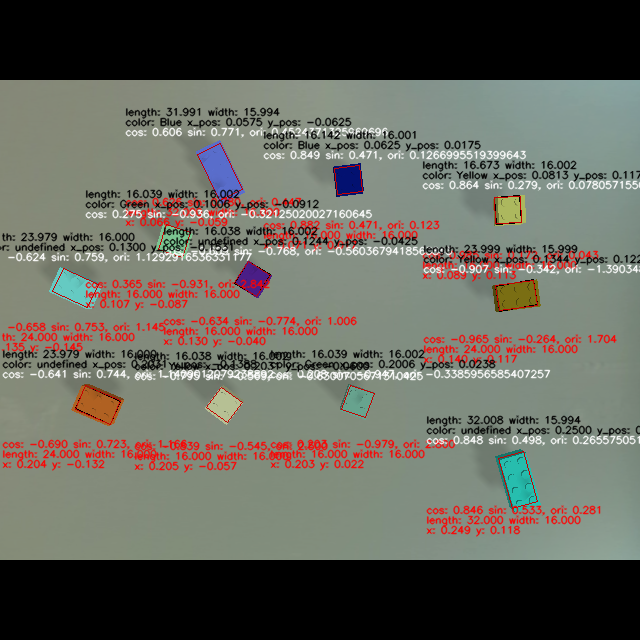
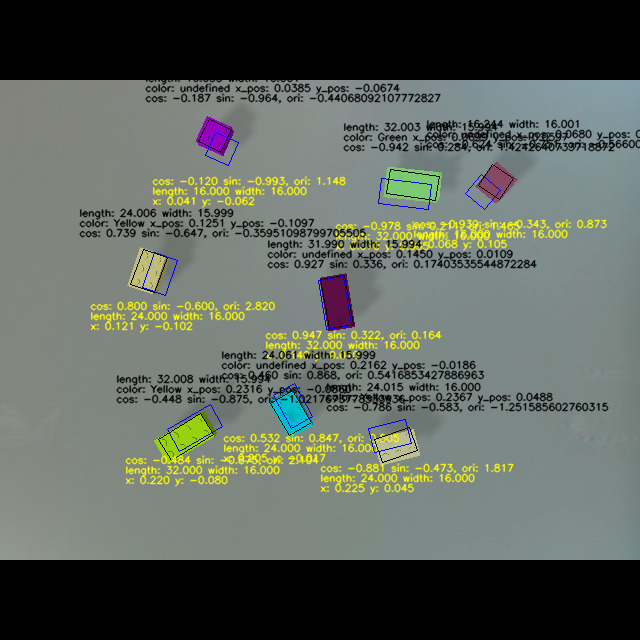
zzz_laptop_update

Changed region(s): [[0.0, 0.125, 1.0, 0.8438], [0.9375, 0.5, 0.9688, 0.5312]]

diff --git a/knolling_lego.py b/knolling_lego.py
@@ -34,8 +34,8 @@ from sklearn.preprocessing import MinMaxScaler
 from shapely.geometry import Polygon
 
 torch.manual_seed(42)
-np.random.seed(123)
-random.seed(123)
+np.random.seed(124)
+random.seed(124)
 
 class Net(nn.Module):
     def __init__(self):
@@ -77,8 +77,8 @@ class Arm:
 
         self.num_motor = 5
 
-        self.low_scale = np.array([0.02, -0.15, 0.006, - np.pi / 2, 0])
-        self.high_scale = np.array([0.28, 0.15, 0.05, np.pi / 2, 0.4])
+        self.low_scale = np.array([0.03, -0.14, 0.006, - np.pi / 2, 0])
+        self.high_scale = np.array([0.27, 0.14, 0.05, np.pi / 2, 0.4])
         self.low_act = -np.ones(5)
         self.high_act = np.ones(5)
         self.x_low_obs = self.low_scale[0]
@@ -87,7 +87,7 @@ class Arm:
         self.y_high_obs = self.high_scale[1]
         self.z_low_obs = self.low_scale[2]
         self.z_high_obs = self.high_scale[2]
-        self.table_boundary = 0.02
+        self.table_boundary = 0.03
 
         self.lateral_friction = 1
         self.spinning_friction = 1
@@ -113,7 +113,7 @@ class Arm:
             ],  # the direction is from the light source position to the origin of the world frame.
         }
         self.view_matrix = p.computeViewMatrixFromYawPitchRoll(
-                                    cameraTargetPosition=[0.154, 0, 0],
+                                    cameraTargetPosition=[0.15, 0, 0],
                                     distance=0.387,
                                     yaw=90,
                                     pitch=-90,
@@ -192,7 +192,16 @@ class Arm:
 
             ############### order the ground truth depend on x, y in the world coordinate system ###############
             new_xyz_list = self.xyz_list
-            ground_truth_xyyaw = np.concatenate((self.check_pos, self.check_ori.reshape((-1, 1))), axis=1)
+
+            # collect the cur pos and cur ori in pybullet as the ground truth
+            new_pos_before, new_ori_before = [], []
+            for i in range(len(self.obj_idx)):
+                new_pos_before.append(p.getBasePositionAndOrientation(self.obj_idx[i])[0][:2])
+                new_ori_before.append(p.getEulerFromQuaternion(p.getBasePositionAndOrientation(self.obj_idx[i])[1])[2])
+            new_pos_before = np.asarray(new_pos_before)
+            new_ori_before = np.asarray(new_ori_before)
+            ground_truth_xyyaw = np.concatenate((new_pos_before, new_ori_before.reshape((-1, 1))), axis=1)
+            # ground_truth_xyyaw = np.concatenate((self.check_pos, self.check_ori.reshape((-1, 1))), axis=1)
             order_ground_truth = np.lexsort((ground_truth_xyyaw[:, 1], ground_truth_xyyaw[:, 0]))
 
             ground_truth_xyyaw_test = np.copy(ground_truth_xyyaw[order_ground_truth, :])
@@ -251,10 +260,12 @@ class Arm:
                 target_compare_scaled = scaler.transform(target_compare)
 
                 # structure: x, y, length, width, ori
+                ################### the results of object detection has changed the order!!!! ####################
                 results = np.asarray(
                     detect(img, evaluation=evaluation, real_operate=self.real_operate, all_truth=target_plot, order_truth=order_ground_truth))
                 results = np.asarray(results[:, :5]).astype(np.float32)
                 # print('this is the result of yolo+resnet\n', results)
+                ################### the results of object detection has changed the order!!!! ####################
                 for i in range(len(results)):
                     if results[i][2] < 0.018:
                         results[i][4] = results[i][4] * 2
@@ -368,6 +379,7 @@ class Arm:
             pred_compare = np.concatenate((results[:, 2:4], pred_cos, pred_sin), axis=1)
             pred_compare_2 = np.concatenate((results[:, 2:4], -pred_cos, -pred_sin), axis=1)
 
+            # arange the sequence based on categories of cubes
             all_index = []
             new_xyz_list = []
             kind = []
@@ -1113,7 +1125,7 @@ class Arm:
                                                 targetPosition=ik_angles0[motor_index], maxVelocity=2.5)
                     for i in range(30):
                         p.stepSimulation()
-                        # time.sleep(1 / 240)
+                        time.sleep(1 / 48)
                     if abs(target_pos[0] - tar_pos[0]) < 0.001 and abs(target_pos[1] - tar_pos[1]) < 0.001 and abs(
                             target_pos[2] - tar_pos[2]) < 0.001 and \
                             abs(target_ori[0] - tar_ori[0]) < 0.001 and abs(target_ori[1] - tar_ori[1]) < 0.001 and abs(
@@ -1547,65 +1559,119 @@ class Arm:
             for motor_index in range(self.num_motor):
                 p.setJointMotorControl2(self.arm_id, motor_index, p.POSITION_CONTROL,
                                         targetPosition=ik_angles0[motor_index], maxVelocity=7)
-            for i in range(80):
+            for i in range(100):
                 p.stepSimulation()
                 # self.images = self.get_image()
-                # time.sleep(1 / 120)
+                # time.sleep(1 / 12)
 
-        def check_accuracy_sim():
-            manipulator_before, new_xyz_list = self.get_obs(self.obs_order, _)
-            print('this is before', manipulator_before)
-            print('this is after', self.manipulator_after)
-            print('this is new xyz', new_xyz_list)
-            print('this is self xyz', self.xyz_list)
+        def check_accuracy_sim(): # need improvement
 
-            all_distance_sim = 0
-            # for i in range(len(manipulator_before)):
-            #     all_distance_sim += np.linalg.norm(manipulator_before[i][:3] - self.manipulator_after[i][:3])
-            #     if np.linalg.norm(manipulator_before[i][:3] - self.manipulator_after[i][:3]) > 0.01:
-            #         print(manipulator_before[i][:3])
-            #         print(self.manipulator_after[i][:3])
-            #         image_error = self.get_obs('images')
-            #         print('error happened when checking!')
-            #         temp = np.copy(image_error[:, :, 0])
-            #         image_error[:, :, 0] = np.copy(image_error[:, :, 2])
-            #         image_error[:, :, 2] = temp
-            #         cv2.imwrite(f'./Error_images/error_{evaluation}.png', image_error)
-            #         break
 
-            error_flag = False
-            for i in range(len(self.manipulator_after)):
-                for j in range(len(manipulator_before)):
-                    if np.linalg.norm(self.manipulator_after[i][:3] - manipulator_before[j][:3]) < 0.015 and np.linalg.norm(self.xyz_list[i] - new_xyz_list[j]) < 0.002:
-                        error_flag = False
-                        all_distance_sim += np.linalg.norm(self.manipulator_after[i][:3] - manipulator_before[j][:3])
-                        print('find it')
-                        break
+            manipulator_before, new_xyz_list = self.get_obs(self.obs_order, _) # the sequence along 2,3,4
+            manipulator_knolling = manipulator_before[:, :2]
+            xyz_knolling = new_xyz_list
+            # don't change the order of xyz in sim!!!!!!!!!!!!!
+
+            order_knolling = np.lexsort((manipulator_before[:, 1], manipulator_before[:, 0]))
+            manipulator_knolling_test = np.copy(manipulator_knolling[order_knolling, :])
+            for i in range(len(order_knolling) - 1):
+                if np.abs(manipulator_knolling_test[i, 0] - manipulator_knolling_test[i + 1, 0]) < 0.003:
+                    if manipulator_knolling_test[i, 1] < manipulator_knolling_test[i + 1, 1]:
+                        order_knolling[i], order_knolling[i + 1] = order_knolling[i + 1], \
+                                                                           order_knolling[i]
+                        print('knolling change the order!')
                     else:
-                        error_flag = True
-            if error_flag == True:
-                print('Error!!!')
-            print('this is all distance between messy and neat in simulation environment', all_distance_sim)
+                        pass
+            print('this is the ground truth order', order_knolling)
+            # print('this is the ground truth before changing the order\n', manipulator_knolling)
+            manipulator_knolling = manipulator_knolling[order_knolling, :]
+
+
+            new_pos_before, new_ori_before = [], []
+            for i in range(len(self.obj_idx)):
+                new_pos_before.append(p.getBasePositionAndOrientation(self.obj_idx[i])[0][:2])
+            new_pos_before = np.asarray(new_pos_before)
+            manipulator_ground_truth = new_pos_before
+            xyz_ground_truth = self.xyz_list
+            # don't change the order of xyz in sim!!!!!!!!!!!!!
+
+            order_ground_truth = np.lexsort((manipulator_ground_truth[:, 1], manipulator_ground_truth[:, 0]))
+            manipulator_ground_truth_test = np.copy(manipulator_ground_truth[order_ground_truth, :])
+            for i in range(len(order_ground_truth) - 1):
+                if np.abs(manipulator_ground_truth_test[i, 0] - manipulator_ground_truth_test[i + 1, 0]) < 0.003:
+                    if manipulator_ground_truth_test[i, 1] < manipulator_ground_truth_test[i + 1, 1]:
+                        order_ground_truth[i], order_ground_truth[i + 1] = order_ground_truth[i + 1], \
+                                                                   order_ground_truth[i]
+                        print('truth change the order!')
+                    else:
+                        pass
+            print('this is the ground truth order', order_knolling)
+            # print('this is the ground truth before changing the order\n', manipulator_knolling)
+            manipulator_ground_truth = manipulator_ground_truth[order_ground_truth, :]
+
+            print('this is manipulator ground truth while checking \n', manipulator_ground_truth)
+            print('this is manipulator after knolling while checking \n', manipulator_knolling)
+            print('this is xyz ground truth while checking \n', xyz_ground_truth)
+            print('this is xyz after knolling while checking \n', xyz_knolling)
+            for i in range(len(manipulator_ground_truth)):
+                if np.linalg.norm(manipulator_ground_truth[i] - manipulator_knolling[i]) < 0.005 and \
+                    np.linalg.norm(xyz_ground_truth[i] - xyz_knolling[i]) < 0.005:
+                    print('find it!')
+                else:
+                    print('error!')
 
         def check_accuracy_real():
             manipulator_before, new_xyz_list = self.get_obs(self.obs_order, _)
-            all_distance_real = 0
-            for i in range(len(manipulator_before)):
-                all_distance_real += np.linalg.norm(manipulator_before[i][:3] - self.manipulator_after[i][:3])
+            manipulator_knolling = manipulator_before[:, :2]
+            xyz_knolling = new_xyz_list
+            # don't change the order of xyz in sim!!!!!!!!!!!!!
 
-            error_flag = False
-            for i in range(len(self.manipulator_fter)):
-                for j in range(len(manipulator_before)):
-                    if np.linalg.norm(self.manipulator_after[i][:3] - manipulator_before[j][:3]) < 0.015 and \
-                            np.linalg.norm(self.xyz_list[i] - new_xyz_list[j]) < 0.004:
-                        error_flag = False
-                        print('find it')
-                        all_distance_real += np.linalg.norm(self.manipulator_after[i][:3] - manipulator_before[j][:3])
-                        break
+            order_knolling = np.lexsort((manipulator_before[:, 1], manipulator_before[:, 0]))
+            manipulator_knolling_test = np.copy(manipulator_knolling[order_knolling, :])
+            for i in range(len(order_knolling) - 1):
+                if np.abs(manipulator_knolling_test[i, 0] - manipulator_knolling_test[i + 1, 0]) < 0.003:
+                    if manipulator_knolling_test[i, 1] < manipulator_knolling_test[i + 1, 1]:
+                        order_knolling[i], order_knolling[i + 1] = order_knolling[i + 1], \
+                                                                   order_knolling[i]
+                        print('knolling change the order!')
                     else:
-                        error_flag = True
-            if error_flag == True:
-                print('Error!!!')
+                        pass
+            print('this is the ground truth order', order_knolling)
+            # print('this is the ground truth before changing the order\n', manipulator_knolling)
+            manipulator_knolling = manipulator_knolling[order_knolling, :]
+
+            new_pos_before, new_ori_before = [], []
+            for i in range(len(self.obj_idx)):
+                new_pos_before.append(p.getBasePositionAndOrientation(self.obj_idx[i])[0][:2])
+            new_pos_before = np.asarray(new_pos_before)
+            manipulator_ground_truth = new_pos_before
+            xyz_ground_truth = self.xyz_list
+            # don't change the order of xyz in sim!!!!!!!!!!!!!
+
+            order_ground_truth = np.lexsort((manipulator_ground_truth[:, 1], manipulator_ground_truth[:, 0]))
+            manipulator_ground_truth_test = np.copy(manipulator_ground_truth[order_ground_truth, :])
+            for i in range(len(order_ground_truth) - 1):
+                if np.abs(manipulator_ground_truth_test[i, 0] - manipulator_ground_truth_test[i + 1, 0]) < 0.003:
+                    if manipulator_ground_truth_test[i, 1] < manipulator_ground_truth_test[i + 1, 1]:
+                        order_ground_truth[i], order_ground_truth[i + 1] = order_ground_truth[i + 1], \
+                                                                           order_ground_truth[i]
+                        print('truth change the order!')
+                    else:
+                        pass
+            print('this is the ground truth order', order_knolling)
+            # print('this is the ground truth before changing the order\n', manipulator_knolling)
+            manipulator_ground_truth = manipulator_ground_truth[order_ground_truth, :]
+
+            print('this is manipulator ground truth while checking \n', manipulator_ground_truth)
+            print('this is manipulator after knolling while checking \n', manipulator_knolling)
+            print('this is xyz ground truth while checking \n', xyz_ground_truth)
+            print('this is xyz after knolling while checking \n', xyz_knolling)
+            for i in range(len(manipulator_ground_truth)):
+                if np.linalg.norm(manipulator_ground_truth[i] - manipulator_knolling[i]) < 0.005 and \
+                        np.linalg.norm(xyz_ground_truth[i] - xyz_knolling[i]) < 0.005:
+                    print('find it!')
+                else:
+                    print('error!')
 
             print('this is all distance between messy and neat in real world')
 
@@ -1650,7 +1716,7 @@ class Arm:
             print(conn)
             print(f"Connected by {addr}")
             table_surface_height = 0.032
-            sim_table_surface_height = -0.015
+            sim_table_surface_height = 0
             num_motor = 5
             # ! reset the pos in both real and sim
             reset_pos = [0.005, 0, 0.1]
@@ -1666,18 +1732,18 @@ class Arm:
                                         maxVelocity=3)
             for _ in range(200):
                 p.stepSimulation()
-                time.sleep(1 / 24)
+                # time.sleep(1 / 24)
         else:
             conn = None
             table_surface_height = 0.032
-            sim_table_surface_height = -0.015
+            sim_table_surface_height = 0
 
         #######################################################################################
         # 1: clean_desk + clean_item, 3: knolling, 4: check_accuracy, 5: get_camera
-        self.planning(1, conn, table_surface_height, sim_table_surface_height, evaluation)
+        # self.planning(1, conn, table_surface_height, sim_table_surface_height, evaluation)
         # error = self.planning(5, conn, table_surface_height, sim_table_surface_height, evaluation)
         error = self.planning(3, conn, table_surface_height, sim_table_surface_height, evaluation)
-        # self.planning(4, conn, table_surface_height, sim_table_surface_height, evaluation)
+        self.planning(4, conn, table_surface_height, sim_table_surface_height, evaluation)
         #######################################################################################
 
         if self.obs_order == 'sim_image_obj_evaluate':
@@ -1747,15 +1813,15 @@ if __name__ == '__main__':
     if command == 'knolling':
 
         num_2x2 = 2
-        num_2x3 = 6
-        num_2x4 = 6
+        num_2x3 = 3
+        num_2x4 = 3
         total_offset = [0.15, 0, 0.006]
         grasp_order = [1, 0, 2]
         gap_item = 0.015
         gap_block = 0.02
         random_offset = True
-        real_operate = False
-        obs_order = 'sim_obj'
+        real_operate = True
+        obs_order = 'real_image_obj'
         check_dataset_error = False
 
 

diff --git a/cam_obs.py b/cam_obs.py
@@ -471,7 +471,8 @@ def Plot4Batch(img, xyxy_list, xy_list, img_label, color_label, obj_num, all_tru
             # my_plot_one_box(xyxy_list[i], img, my_yaw, my_length, my_width, label1=info1, label2=color_pos, label3=info2,
             #                 color=[0, 0, 0], line_thickness=1)
             check_flag = False
-            my_plot_one_box_lwcossin(xyxy_list[i], img, my_length, my_width, my_ori, label1=info1, label2=color_pos,
+            center_pred = [int((xyxy_list[i][1] + xyxy_list[i][3]) / 2), int((xyxy_list[i][0] + xyxy_list[i][2]) / 2)]
+            my_plot_one_box_lwcossin(center_pred, img, my_length, my_width, my_ori, label1=info1, label2=color_pos,
                             label3=info2,
                             color=[0, 0, 0], line_thickness=1, check_flag=check_flag)
             my_to_arm = [xy[0], xy[1], my_length, my_width, my_ori, color_label[i]]
@@ -485,7 +486,11 @@ def Plot4Batch(img, xyxy_list, xy_list, img_label, color_label, obj_num, all_tru
                 info2 = f'length: {length_truth * 1000:.3f} width: {width_truth * 1000:.3f}'
                 info3 = f'x: {x_truth:.3f} y: {y_truth:.3f}'
                 check_flag = True
-                my_plot_one_box_lwcossin(xyxy_list[i], img, length_truth, width_truth, ori_truth,
+                mm2px = 530 / 0.34
+                # mm2px = 1500
+
+                center_ground_truth = [int(x_truth * mm2px + 86), int(y_truth * mm2px + 320)]
+                my_plot_one_box_lwcossin(center_ground_truth, img, length_truth, width_truth, ori_truth,
                                 label1=info1, label2=info2, label3=info3, color=[0, 0, 0], line_thickness=1,
                                 check_flag=check_flag)
             else:
@@ -495,6 +500,35 @@ def Plot4Batch(img, xyxy_list, xy_list, img_label, color_label, obj_num, all_tru
 
     return img, to_arm
 
+def xyz_resolve_inverse(x,y):
+
+    dist = math.dist([0.154, 0], [x, y])
+
+    cube_h = 10/1000
+
+    add_value = (cube_h * dist) / (0.387 - cube_h)
+
+    along_axis = abs(np.arctan(y/(x-0.154)))
+
+    # sign = lambda x: math.copysign(1, x)
+
+    x_new = x + np.sign(x-0.154) * add_value * math.cos(along_axis)
+    y_new = y + np.sign(y) * add_value * math.sin(along_axis)
+
+    # dist = math.dist([0.154, 0], [x, y])
+    #
+    # cube_h = 10 / 1000
+    #
+    # add_value = (cube_h * dist) / (0.387 - cube_h)
+    #
+    # along_axis = abs(np.arctan(y / (x - 0.154)))
+    #
+    # # sign = lambda x: math.copysign(1, x)
+    #
+    # x_new = x + np.sign(x - 0.154) * add_value * math.cos(along_axis)
+    # y_new = y + np.sign(y) * add_value * math.sin(along_axis)
+
+    return x_new, y_new
 
 def img_modify(my_im2, xyxy, img_label, color_label, xy_label, num_obj, real_operate):
 
@@ -509,21 +543,23 @@ def img_modify(my_im2, xyxy, img_label, color_label, xy_label, num_obj, real_ope
     obj_y = int((px_resy1 + px_resy2) / 2)
 
     if real_operate == True:
-        mm2px = 1500 / 1  # unit convert = 1500
         mm2px = 530 / 0.34
     else:
-        mm2px = 1 / 0.000625  # unit convert = 1600
+        mm2px = 530 / 0.34
 
     if real_operate == True:
         obj_x = obj_x - 320  # move it to the world coordinate 从左上角移动到pybullet中的（0，0）
-        # obj_y = obj_y - 96
+        obj_y = obj_y - (0.154 - (0.3112 - 0.154)) * mm2px + 5 # add the rm_distortion!!!!!!!!!!
         obj_y = obj_y - 86
     else:
-        obj_x = obj_x - 320  # move it to the world coordinate 从左上角移动到pybullet中的（0，0）
-        obj_y = obj_y - 80
+        obj_x = obj_x - 320  # move it to the world coordinate 从左上角移动到pybullet中的（0，0)
+        obj_y = obj_y - (0.154 - (0.3112 - 0.154)) * mm2px + 5 # add the rm_distortion!!!!!!!!!!
+        obj_y = obj_y - 86
 
+    # convert px to mm!!!!!!!!!!!!!
     obj_x = obj_x / mm2px
     obj_y = obj_y / mm2px
+    # obj_x, obj_y = xyz_resolve_inverse(obj_x, obj_y)
 
     xy_label.append([obj_y, obj_x])
     # print('box_number: ',box_number, obj_x, obj_y)
